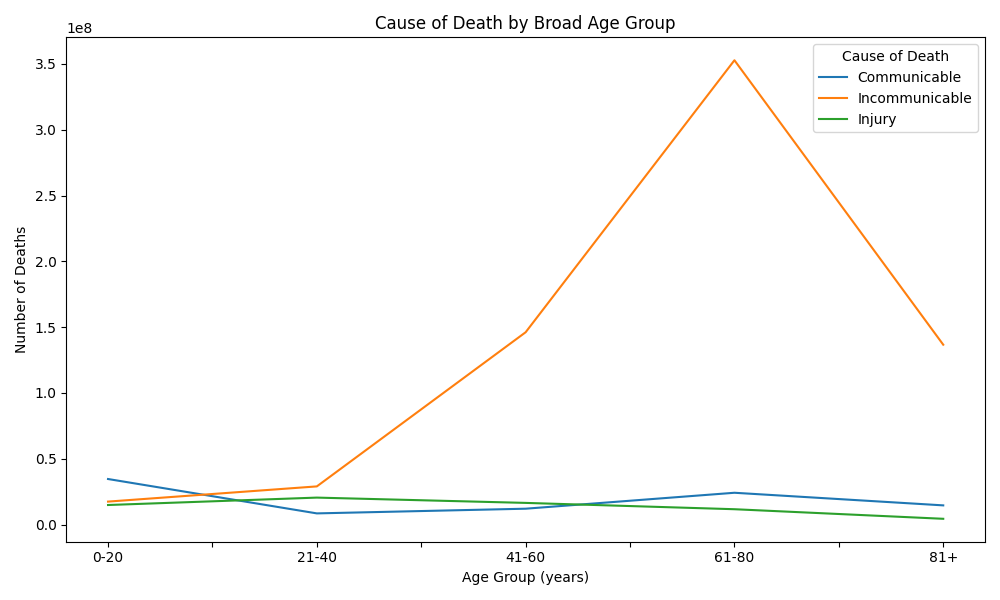
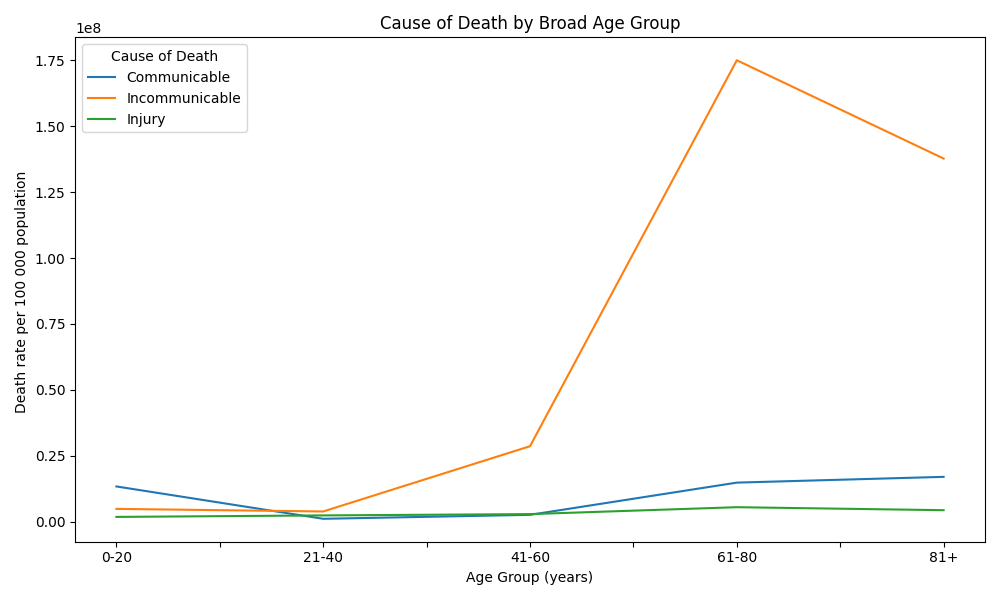
death rate amog 100,000 people instead of absoulte numbers to be more fair

diff --git a/project.py b/project.py
@@ -121,11 +121,11 @@ df_concat['Year_broad'] = df_concat['Year'].apply(year_map)
 # Plots
 # ------------------------------
 # Cause of Death by Broad Age Group
-pivot_df = df_concat.pivot_table(index="Age Group Broad", columns="cause", values="Number", aggfunc="sum")
+pivot_df = df_concat.pivot_table(index="Age Group Broad", columns="cause", values="Death rate per 100 000 population", aggfunc="sum")
 pivot_df.plot(kind="line", figsize=(10,6))
 plt.title("Cause of Death by Broad Age Group")
 plt.xlabel("Age Group (years)")
-plt.ylabel("Number of Deaths")
+plt.ylabel("Death rate per 100 000 population ")
 plt.xticks(rotation=0)
 plt.legend(title="Cause of Death")
 plt.tight_layout()
@@ -133,11 +133,11 @@ plt.savefig(os.path.join(OUTPUT_DIR, "Cause_of_death_by_Broad_Age_group.png"))
 plt.show()
 
 # Cause of Death by Region
-region_df = df_concat.pivot_table(index="Region Name", columns="cause", values="Number", aggfunc="sum")
+region_df = df_concat.pivot_table(index="Region Name", columns="cause", values="Death rate per 100 000 population", aggfunc="sum")
 region_df.plot(kind="bar", figsize=(10,6))
 plt.title("Cause of Death by Region")
 plt.xlabel("Region")
-plt.ylabel("Number of Deaths")
+plt.ylabel("Death rate per 100 000 population")
 plt.xticks(rotation=45)
 plt.legend(title="Cause of Death")
 plt.tight_layout()
@@ -145,11 +145,11 @@ plt.savefig(os.path.join(OUTPUT_DIR, 'Cause_of_Death_by_region.png'))
 plt.show()
 
 # Death rate by Gender in accordance to the Region
-gender_region_df = df_concat.pivot_table(index="Region Name", columns="Sex", values="Number", aggfunc="sum")
+gender_region_df = df_concat.pivot_table(index="Region Name", columns="Sex", values="Death rate per 100 000 population", aggfunc="sum")
 gender_region_df.plot(kind="bar", figsize=(10,6))
 plt.title("Death rate by Gender in accordance to the Region")
 plt.xlabel("Region")
-plt.ylabel("Number of Deaths")
+plt.ylabel("Death rate per 100 000 population")
 plt.xticks(rotation=45)
 plt.legend(title="Gender")
 plt.tight_layout()
@@ -157,11 +157,11 @@ plt.savefig(os.path.join(OUTPUT_DIR, 'Death_rate_by_Gender.png'))
 plt.show()
 
 # Death rate by Year
-timeline_df = df_concat.pivot_table(index="Year_broad", columns="cause", values="Number", aggfunc="sum")
+timeline_df = df_concat.pivot_table(index="Year_broad", columns="cause", values="Death rate per 100 000 population", aggfunc="sum")
 timeline_df.plot(kind="bar", figsize=(10,6))
 plt.title("Death rate by Year")
 plt.xlabel("Year")
-plt.ylabel("Number of Deaths")
+plt.ylabel("Death rate per 100 000 population")
 plt.xticks(rotation=45)
 plt.legend(title="Cause of Death")
 plt.tight_layout()
@@ -169,11 +169,11 @@ plt.savefig(os.path.join(OUTPUT_DIR, 'death_rate_by_Year.png'))
 plt.show()
 
 # Death rate by Year and Gender
-gender_year_df = df_concat.pivot_table(index="Year_broad", columns="Sex", values="Number", aggfunc="sum")
+gender_year_df = df_concat.pivot_table(index="Year_broad", columns="Sex", values="Death rate per 100 000 population", aggfunc="sum")
 gender_year_df.plot(kind="bar", figsize=(10,6))
 plt.title("Death rate by Year in accordance to Gender")
 plt.xlabel("Year")
-plt.ylabel("Number of Deaths")
+plt.ylabel("Death rate per 100 000 population")
 plt.xticks(rotation=45)
 plt.legend(title="Gender")
 plt.tight_layout()

diff --git a/data_model.py b/data_model.py
@@ -1,0 +1,14 @@
+
+import pandas as pd
+import os
+
+
+
+BASE_DIR = os.path.dirname(os.path.abspath(__file__))
+DATA_DIR = os.path.join(BASE_DIR, 'data')
+OUTPUT_DIR = os.path.join(DATA_DIR, 'output')
+
+df_data=pd.read_csv(os.path.join(OUTPUT_DIR,'data.csv'))
+x=df_data['Age Group','Region Name','Year','Sex','Cause']
+y=df_data['Numbers']
+print(df_data.head())
